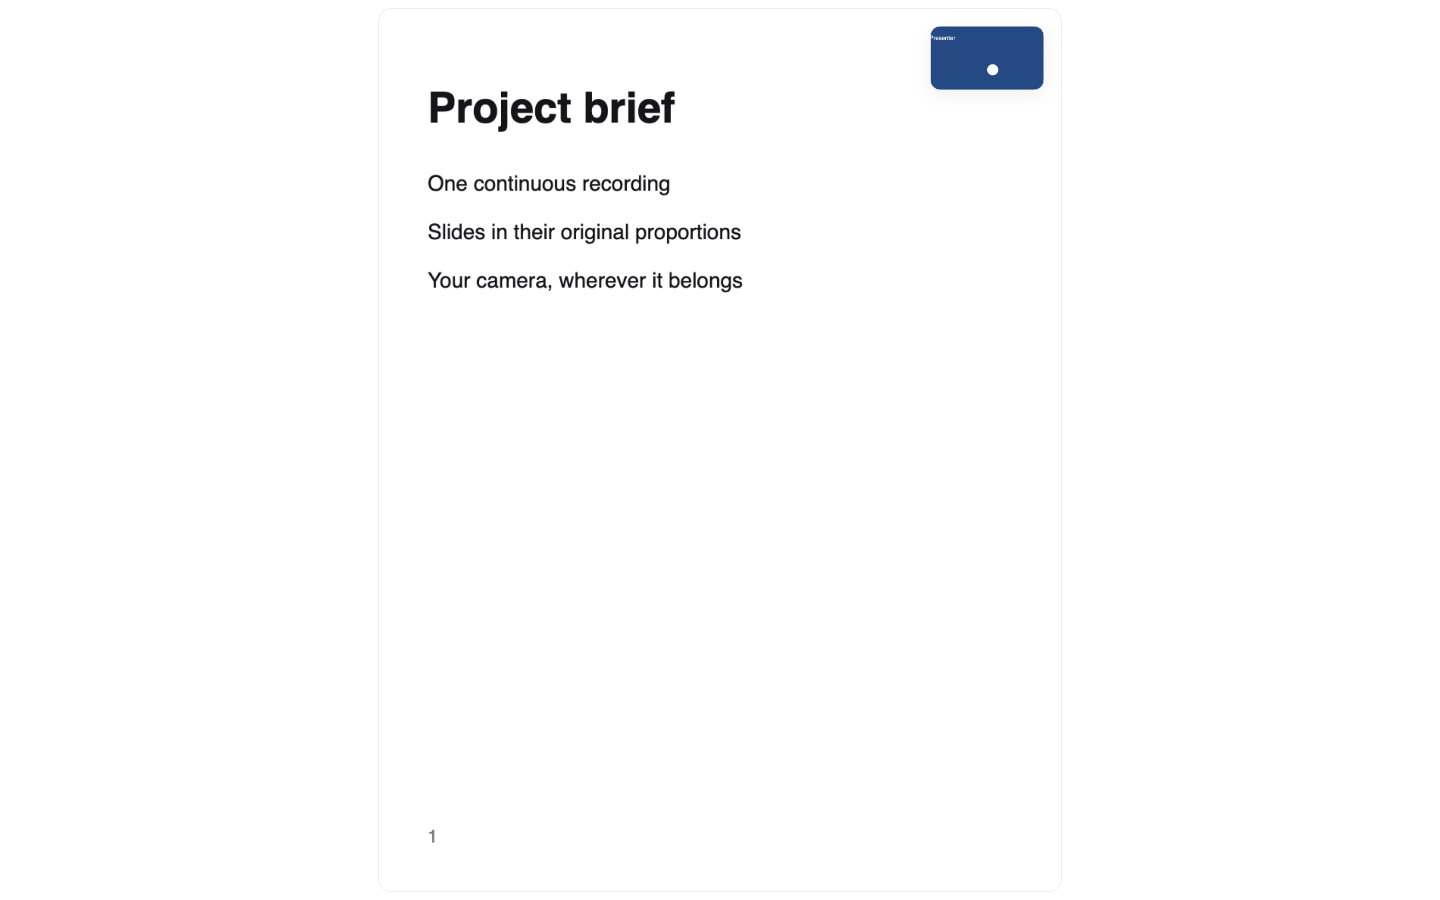
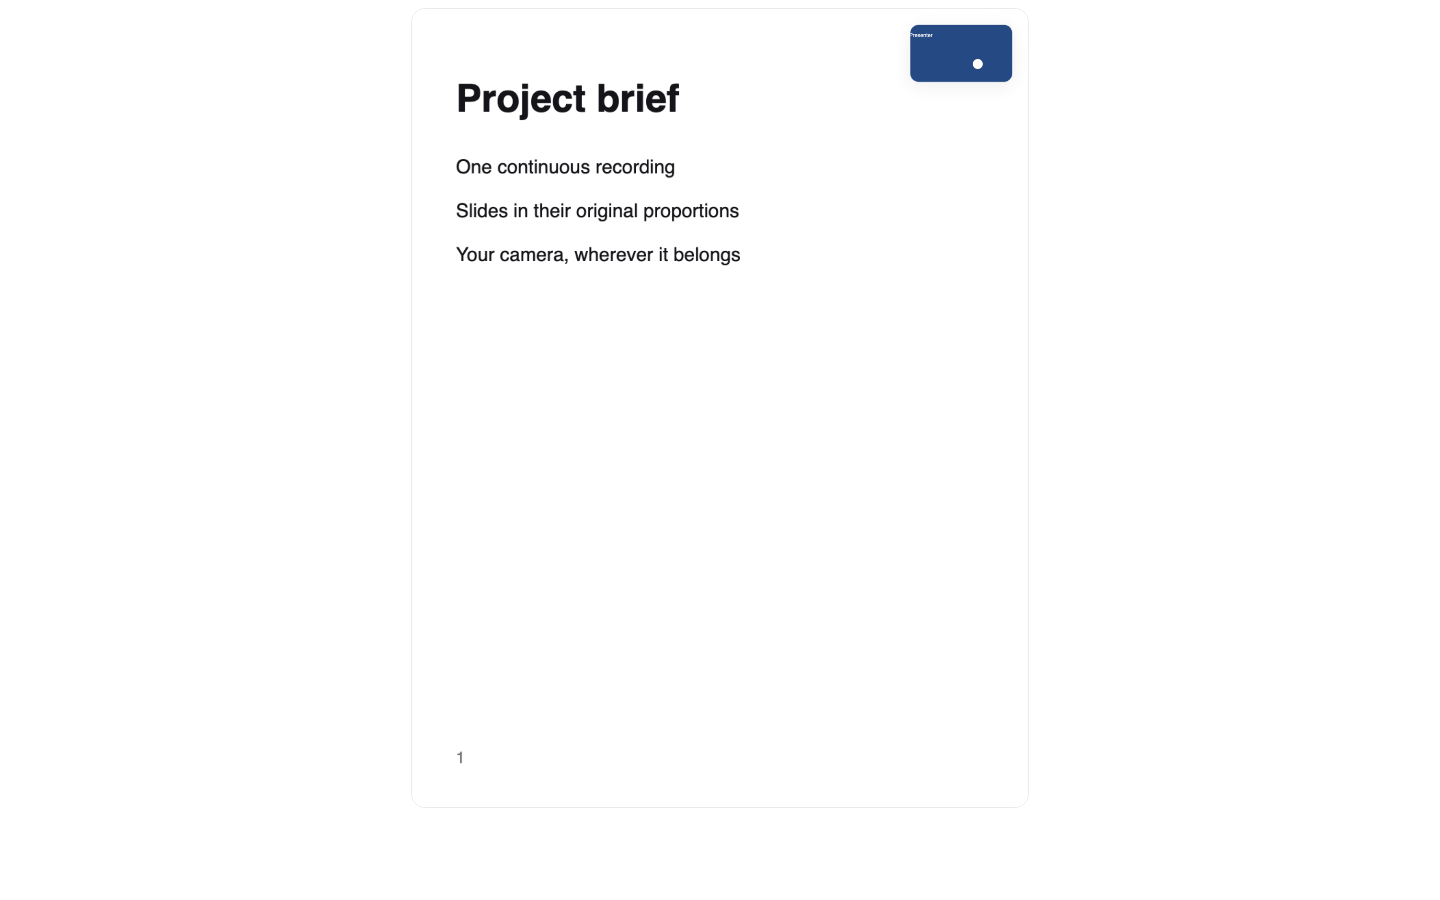
Keep camera choices clear of recording controls and restore fullscreen focus

Changed region(s): [[0.2812, 0.0933, 0.5312, 0.3422], [0.625, 0.0311, 0.75, 0.1244], [0.6562, 0.0, 0.6875, 0.0311]]

diff --git a/src/studio/useSlideView.ts b/src/studio/useSlideView.ts
@@ -5,9 +5,13 @@ export function useSlideView() {
   const host = useRef<HTMLDivElement>(null);
   const native = useRef(false);
   const wanted = useRef(false);
+  const launcher = useRef<HTMLElement | null>(null);
   const timer = useRef<number | null>(null);
   const [full, setFull] = useState(false);
   const [awake, setAwake] = useState(true);
+  const restoreFocus = useCallback(() => {
+    if (!wanted.current && launcher.current?.isConnected) launcher.current.focus({ preventScroll: true });
+  }, []);
 
   const wake = useCallback(() => {
     setAwake(true);
@@ -18,6 +22,8 @@ export function useSlideView() {
   const enter = () => {
     const el = host.current;
     if (!el) return;
+    launcher.current = document.activeElement instanceof HTMLElement ? document.activeElement : null;
+    native.current = document.fullscreenElement === el;
     wanted.current = true;
     setFull(true);
     // The viewport view remains usable when the browser cannot grant native fullscreen.
@@ -27,14 +33,13 @@ export function useSlideView() {
     wanted.current = false;
     native.current = false;
     setFull(false);
-    if (document.fullscreenElement === host.current) void document.exitFullscreen().catch(() => undefined);
   }, []);
 
   useEffect(() => {
     const changed = () => {
       if (host.current && document.fullscreenElement === host.current) {
         if (wanted.current) native.current = true;
-        else void document.exitFullscreen().catch(() => undefined);
+        else void document.exitFullscreen().catch(() => undefined).then(restoreFocus);
       }
       else if (native.current) {
         native.current = false;
@@ -44,12 +49,11 @@ export function useSlideView() {
     };
     document.addEventListener("fullscreenchange", changed);
     return () => document.removeEventListener("fullscreenchange", changed);
-  }, []);
+  }, [restoreFocus]);
 
   useLayoutEffect(() => {
     const el = host.current;
     if (!full || !el) return;
-    const before = document.activeElement;
     const outside: { el: HTMLElement; inert: boolean }[] = [];
     for (let node: HTMLElement | null = el; node && node !== document.body; node = node.parentElement) {
       for (const sibling of node.parentElement?.children ?? []) {
@@ -84,10 +88,10 @@ export function useSlideView() {
       window.removeEventListener("keydown", keys, true);
       if (timer.current !== null) window.clearTimeout(timer.current);
       for (const item of outside) item.el.inert = item.inert;
-      if (document.fullscreenElement === el) void document.exitFullscreen().catch(() => undefined);
-      if (before instanceof HTMLElement && before.isConnected) before.focus({ preventScroll: true });
+      if (document.fullscreenElement === el) void document.exitFullscreen().catch(() => undefined).then(restoreFocus);
+      else restoreFocus();
     };
-  }, [full, leave, wake]);
+  }, [full, leave, restoreFocus, wake]);
 
   return { host, full, awake, enter, leave, wake };
 }

diff --git a/src/studio/cameraSpots.css b/src/studio/cameraSpots.css
@@ -21,6 +21,7 @@
 
 .st-stage:has(> .st-spots) { overflow: visible; }
 .st-stage:has(> .st-spots) > canvas { border-radius: inherit; }
+.st-body:has(.st-spots), .st-stage-cell:not(.is-full):has(.st-spots) { position: relative; z-index: 2; }
 
 .st-spots-shade {
   position: absolute;
@@ -119,32 +120,37 @@
   .st-spot-size button { width: var(--control-sm); height: var(--control-sm); font-size: var(--text-13); }
 }
 
-/* A narrow page keeps its sizes beside the picture, clear of every shape's tap target. */
-@container stage (max-width: 128px) {
+/* Compact pictures keep one camera toolbar below the frame, clear of its place targets. */
+@container stage (max-width: 360px) or (max-height: 192px) {
   .st-spot.is-h, .st-spot.is-v { display: none; }
   .st-spot-target { display: block; }
-  .st-spot-size {
-    left: auto;
-    right: calc(100% + var(--space-8));
-    flex-direction: column;
-    gap: var(--space-4);
+  .st-spot-size:not(.is-kept) { display: none; }
+  .st-spot-size.is-below, .st-spot-size.is-above, .st-spot-size.is-mid,
+  .st-spot-size.is-below.is-end, .st-spot-size.is-above.is-end {
+    left: 50%;
+    top: calc(100% + var(--space-8));
+    right: auto;
+    margin-top: 0;
+    translate: -50% 0;
+    flex-direction: row;
+    gap: calc(var(--space-12) / 2);
+    padding: var(--space-4);
+    border: 1px solid var(--line);
+    border-radius: var(--radius-control);
+    background: var(--bg);
   }
-  .st-spot-size.is-end, .st-spot-size.is-mid { left: calc(100% + var(--space-8)); right: auto; }
-  .st-spot-size.is-below, .st-spot-size.is-below.is-end { translate: 0 0; }
-  .st-spot-size.is-above, .st-spot-size.is-above.is-end { translate: 0 -100%; }
-  .st-spot-size.is-mid { margin-top: calc(var(--camera-height) / 2); translate: 0 -50%; }
-  .st-spot-shapes {
-    position: absolute;
-    right: calc(100% + var(--space-4));
-    top: 50%;
-    translate: 0 -50%;
-    display: flex;
-    flex-direction: column;
-    gap: var(--space-4);
+  .st-spot-size button {
+    width: var(--control-sm);
+    height: var(--control-sm);
+    font-size: var(--text-13);
+    color: var(--ink-2);
+    border-color: var(--ink-3);
   }
-  .st-spot-size.is-end .st-spot-shapes, .st-spot-size.is-mid .st-spot-shapes { right: auto; left: calc(100% + var(--space-4)); }
-  .st-spot-shapes button::after { display: none; }
-  .st-spot-shapes button[aria-pressed="true"] { border-color: var(--on-dark); color: var(--on-dark); }
+  .st-spot-shapes { display: contents; }
+  .st-spot-size.is-here button[aria-checked="true"], .st-spot-shapes button[aria-pressed="true"] {
+    color: var(--ink);
+    border-color: var(--ink);
+  }
 }
 
 /* On touch each ring takes its share of the row and 44px of height, grown away from its place's shape (from the

diff --git a/src/studio/CameraSpots.tsx b/src/studio/CameraSpots.tsx
@@ -52,8 +52,8 @@ interface SizeGesture { p: Place; until: number; origin: SizeTarget[]; latest: S
 function Sizes({ p, wide, size, shape, current, kept, onPick, onClose, frame }: { p: Place; wide: CameraBox; size: CameraSize; shape: CameraShape; current: boolean; kept: boolean; onPick(row: HTMLElement): void; onClose(): void; frame: FrameSize }) {
   const at = rowAt(p, wide);
   const row = useRef<HTMLDivElement>(null);
-  const style: React.CSSProperties & { "--camera-left": string; "--camera-top": string; "--camera-height": string } = {
-    "--camera-left": pct(at.x, frame.width), "--camera-top": pct(at.y, frame.height), "--camera-height": `${100 * wide.h / frame.width}cqw`,
+  const style: React.CSSProperties & { "--camera-left": string; "--camera-top": string } = {
+    "--camera-left": pct(at.x, frame.width), "--camera-top": pct(at.y, frame.height),
   };
   return (
     <div
@@ -155,7 +155,6 @@ export function CameraSpots({ open, onOpen, format }: { open: boolean; onOpen(op
         if (row) {
           row.style.setProperty("--camera-left", pct(at.x, frame.width));
           row.style.setProperty("--camera-top", pct(at.y, frame.height));
-          row.style.setProperty("--camera-height", `${100 * h / frame.width}cqw`);
         }
       });
     });

diff --git a/src/studio/RoomView.tsx b/src/studio/RoomView.tsx
@@ -1012,7 +1012,7 @@ function Booth({ deck, index, room, me, camera, canvas, stage, dock, phase, setP
             {phase.k === "countdown" && <div className="st-count" aria-live="assertive"><span key={phase.n}>{phase.n}</span></div>}
             {refused && <StartButton onStart={again} />}
           </StageCanvas>
-          {slideView.full && <div className="st-focus-controls" role="group" aria-label="Slide controls" onFocus={slideView.wake}>
+          {slideView.full && !spotsOpen && <div className="st-focus-controls" role="group" aria-label="Slide controls" onFocus={slideView.wake}>
             <button type="button" className="icon-btn" onClick={slideView.leave} aria-label="Exit full screen" data-tip="Exit full screen (Esc)"><Icon name="x" size={16} /></button>
             {(phase.k === "idle" || phase.k === "recording") && !follow && nav}
             {(dock === "record" || dock === "retake") && <button type="button" className="btn is-primary" onClick={() => settled() && record()} disabled={!canRecord}><span className="st-dot" />{dock === "retake" ? "Retake" : "Record"}</button>}

diff --git a/src/studio/slideView.css b/src/studio/slideView.css
@@ -10,7 +10,7 @@
   place-items: center;
   width: 100%;
   height: 100dvh;
-  padding: var(--space-8);
+  padding: var(--space-8) var(--space-8) calc(var(--control-lg) + var(--space-32) + max(var(--space-16), env(safe-area-inset-bottom)));
   container-type: size;
   background: var(--bg);
   color: var(--ink);

diff --git a/src/studio/studio.css b/src/studio/studio.css
@@ -437,7 +437,7 @@
 
 .st-stage-cell .st-stage {
   width: 100%;
-  container: stage / inline-size;
+  container: stage / size;
 }
 
 .st-stage canvas {
